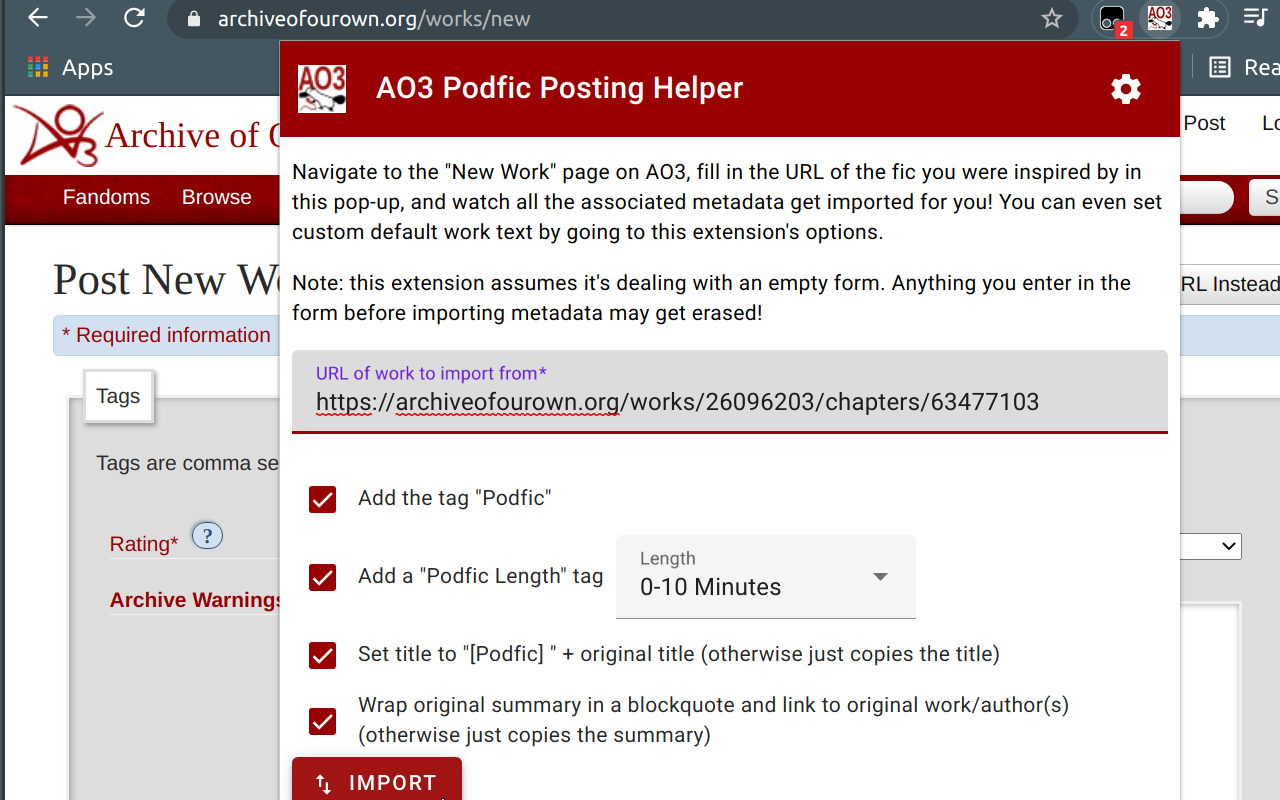
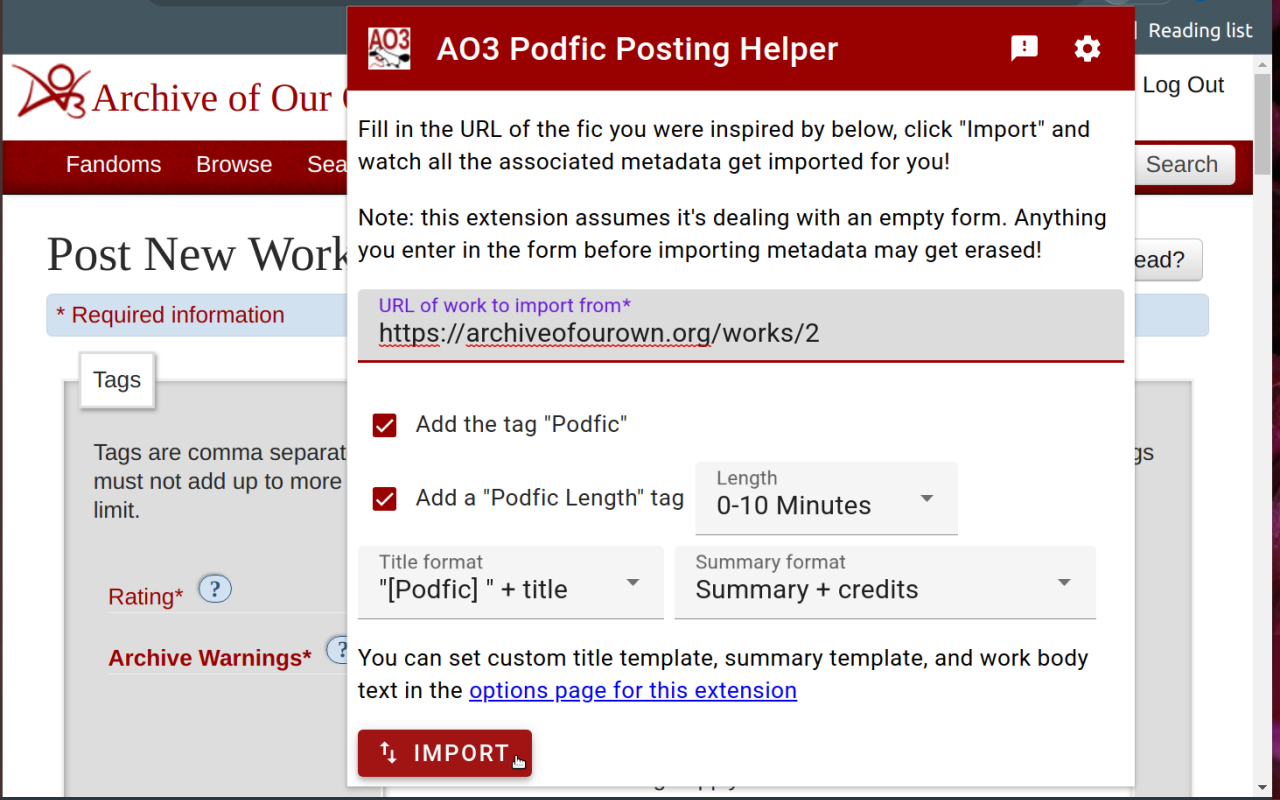
Update docs and screenshots to match v2.0

diff --git a/README.md b/README.md
@@ -14,14 +14,37 @@ You can configure it to:
 
 *   Automatically add the "Podfic" tag
 *   Automatically add a "Podfic Length: X" tag
-*   Add a "[Podfic] " prefix to your title
-*   Wrap the original summary in a blockquote and link to that work and its authors
+*   Apply a transformation to the original title, such as adding the prefix "[Podfic] "
+*   Apply a transformation to the original summary, such as wrapping it in a blockquote and linking to that work and its authors
 
 ![A popup over the new work page, showing the options available to configure importing metadata](images/pop-up-screen-shot.png)
+
+If the default set of title transformations isn't enough, you can configure a custom format on the options page. "**\${title}**" will be replaced with the original title and "**\${authors}**" with the original authors.
+
+For example, if the original work is called "Super awesome title" and is by
+"author1" and "author2":
+
+*   "**\${title}**" will give you "Super awesome title"
+*   "[Podfic] **\${title}**" will give you "[Podfic] Super awesome title"
+*   "podfic of **\${title}** by **\${authors}**"
+    will give you "podfic of Super awesome title by author1, author2"
+
+![An options page where you can configure a custom title transformation](images/title-options-screen-shot.png)
+
+If the default set of summary transformations isn't enough, you can configure a custom format on the options page. The following replacements will be made:
+
+*   **\${blocksummary}**: The summary of the original work wrapped in a blockquote. Because of the way ao3 handles block quotes, you should put whatever you want to follow this on the same line.
+*   **\${summary}**:The summary of the original work.
+*   **\${title}**: The title of the original work. This will be a link to the original work.
+*   **\${authors}**: A comma-separated list of the authors of the original work. Each author is a link to their AO3 page.
+
+![An options page where you can configure a custom summary transformation](images/summary-options-screen-shot.png)
 
 You can also configure a custom default body for your work, instead of a default which demonstrates how to embed audio, images, or links.
 
 ![An options page where you can configure the default body of your new work](images/options-screen-shot.png)
+
+
 
 ## Documentation
 
@@ -37,4 +60,4 @@ The only way to pass information between the form fields in the pop-up and the i
 
 ### Code design
 
-The pop-up and options page are built using [Material Design Components for Web](https://material.io/). We using the web components without a framework and with barebones CSS. The JS and CSS files for the components were downloaded from CDN and are packed in source here. We didn't set up any kind of package management with Node or any bundling with tools like Webpack on account of these being more effort than we were willing to invest right now. Code is organized as ES6 modules where possible.
+The pop-up and options page are built using [Material Design Components for Web](https://material.io/). We are using the web components without a framework and with barebones CSS. The JS and CSS files for the components were downloaded from CDN and are packed in source here. We didn't set up any kind of package management with Node or any bundling with tools like Webpack on account of these being more effort than we were willing to invest right now. Code is organized as ES6 modules where possible.
